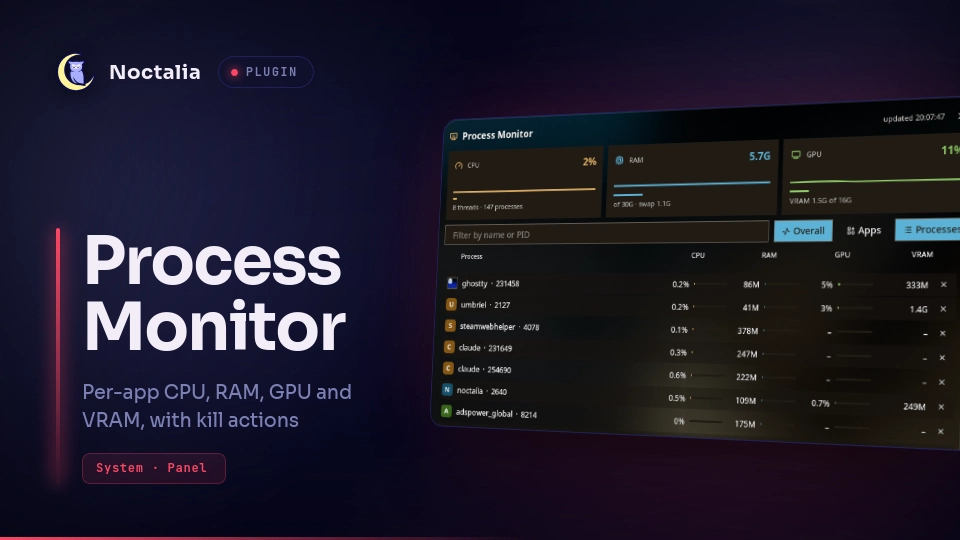
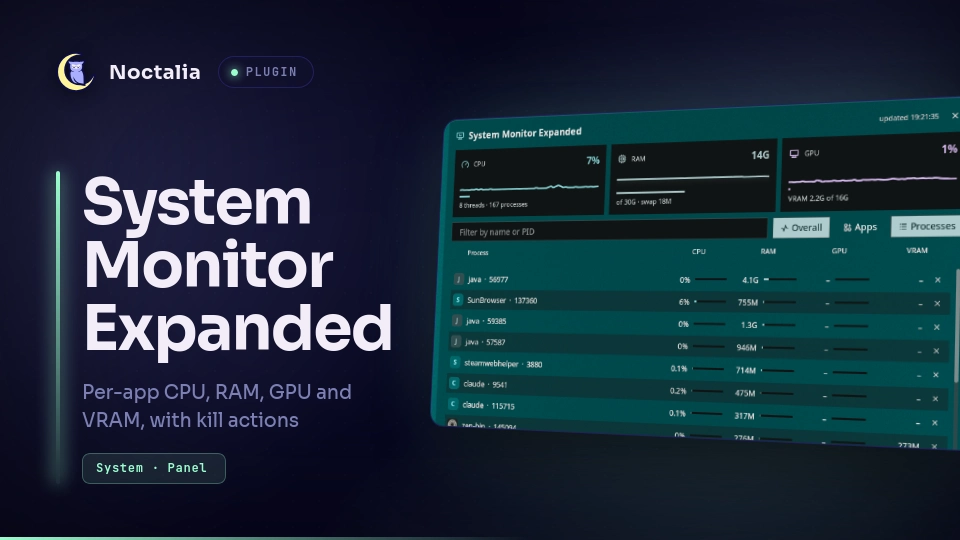
process-monitor: rename to System Monitor Expanded (#1331)

diff --git a/process-monitor/README.md b/process-monitor/README.md
@@ -1,8 +1,13 @@
-# Process Monitor
+# System Monitor Expanded
 
 See which apps are using your CPU, RAM, GPU and VRAM right now: a compact bar readout, a sortable panel where you
 can terminate, kill or pause processes, and a desktop widget. Per-process GPU and VRAM usage come from the kernel's
 DRM fdinfo, the same counters `nvtop` and `amdgpu_top` read, so games and browsers show up with their real GPU load.
+
+It expands on Noctalia's built-in System Monitor bar widgets: the bar readout uses the same glyphs, gauges and
+warning thresholds, and adds which app is using the most, with per-app detail in the panel and on the desktop.
+
+Called *Process Monitor* before 1.0.3. The id is unchanged, so existing installs update in place.
 
 ## Plugin
 
@@ -19,7 +24,7 @@ DRM fdinfo, the same counters `nvtop` and `amdgpu_top` read, so games and browse
 
 ## Usage
 
-- **Bar widget:** add **Process Monitor** to a bar in Settings → Bar. It shows CPU, temperature, RAM, GPU and VRAM
+- **Bar widget:** add **System Monitor Expanded** to a bar in Settings → Bar. It shows CPU, temperature, RAM, GPU and VRAM
   totals with small gauges that turn towards the error colour under load, followed by the busiest app. Hover for the
   top five apps; click to open the panel.
 - **Panel:** CPU, RAM and GPU cards with 60-sample history graphs, then a table of processes. Type in the filter box
@@ -32,7 +37,7 @@ DRM fdinfo, the same counters `nvtop` and `amdgpu_top` read, so games and browse
   noctalia msg panel-toggle yahya637/process-monitor:panel
   ```
 
-- **Desktop widget:** add **Process Monitor** in the desktop widgets editor. It shows totals, a CPU and GPU graph,
+- **Desktop widget:** add **System Monitor Expanded** in the desktop widgets editor. It shows totals, a CPU and GPU graph,
   sort chips (Overall, CPU, RAM, GPU, VRAM) and the top processes. Click the title to open the panel, or a row to open
   the panel filtered to that app. Hover a row to show its ✕ (two clicks to terminate). The sort you pick is remembered.
 
